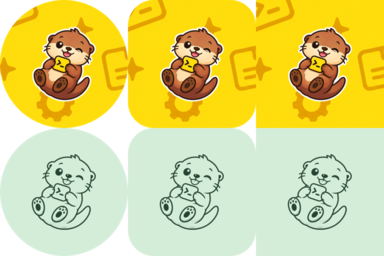
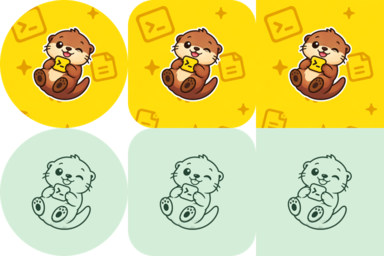
Show the whole background image on Android, at the same scale as other platforms
Android launchers show only the inner 72dp of the 108dp adaptive layer,
so stretching the image over the whole layer zoomed it 1.5x compared
with iOS. The image now covers the visible 72dp, and the margin that
launcher motion reveals mirrors its edges.

diff --git a/generate.go b/generate.go
@@ -148,7 +148,7 @@ func writeBundle(ctx context.Context, root string, opts options, foreground, mon
 	}
 	write := func(path string, data []byte) error { return writeBundleFile(ctx, root, path, data) }
 	writePNG := func(path string, img image.Image) error { return writePNGFile(ctx, root, path, img) }
-	// A color background is a shape drawable; an image becomes a full 108dp layer per density.
+	// A color background is a shape drawable; an image becomes a 108dp layer per density.
 	if background.image == nil {
 		bgXML := fmt.Sprintf("<?xml version=\"1.0\" encoding=\"utf-8\"?>\n<shape xmlns:android=\"http://schemas.android.com/apk/res/android\" android:shape=\"rectangle\">\n    <solid android:color=\"#%02X%02X%02X\" />\n</shape>\n", background.color.R, background.color.G, background.color.B)
 		if err := write("res/drawable/"+opts.Name+"_background.xml", []byte(bgXML)); err != nil {
@@ -157,7 +157,7 @@ func writeBundle(ctx context.Context, root string, opts options, foreground, mon
 	}
 	for _, d := range densities {
 		if background.image != nil {
-			if err := writePNG("res/drawable-"+d.name+"/"+opts.Name+"_background.png", background.canvas(d.layer)); err != nil {
+			if err := writePNG("res/drawable-"+d.name+"/"+opts.Name+"_background.png", background.adaptiveLayer(d.layer)); err != nil {
 				return err
 			}
 		}
@@ -228,7 +228,7 @@ func writeBundle(ctx context.Context, root string, opts options, foreground, mon
 	}
 	backgroundNote := "The opaque background fills the canvas."
 	if background.image != nil {
-		backgroundNote = "The background image covers the whole 108dp layer. Launchers show about its middle two thirds and reveal more of it as the icon moves."
+		backgroundNote = "The background image covers the visible 72dp, so it appears at the same scale as on other platforms. The outer 18dp, revealed as launchers move the icon, mirrors the image's edges."
 	}
 	guide := fmt.Sprintf("# Android app icons\n\nCopy `res/` into your app's resource source set, preserving the folders. Merge the two application attributes from `manifest-snippet.xml` into your existing AndroidManifest.xml; do not replace your manifest. Review existing icons with the same names, including XML, WebP and PNG variants, before copying. Remove obsolete resources with those names to avoid duplicate or overriding icons.\n\nCompile with Android API 33 or newer. This bundle targets minSdk %d.\n\n- API 26+: 108dp adaptive layers, with %s. %s\n- API 33+: a separate tintable monochrome layer. The launcher must support themed icons and the user must enable them.\n- API 25 and below: density-specific legacy and round PNGs are included when minSdk is below 26.\n\n`preview.png` shows circle, rounded-square and square masks, followed by example themed icons. These are approximations; launcher masks and effects vary. `play-store.png` is an opaque 512×512 PNG without baked-in corner rounding or shadows.\n\nTransparent source padding is trimmed before fitting the mark. Supply clean artwork without baked-in launcher masks or shadows. Thin or unusually shaped marks may need a size adjustment; verify visual balance on your target launcher.\n\nOfficial requirements:\n- https://developer.android.com/develop/ui/compose/system/icon_design_adaptive\n- https://developer.android.com/studio/write/create-app-icons\n- https://developer.android.com/distribute/google-play/resources/icon-design-specifications\n", opts.MinSDK, composition, backgroundNote)
 	return write("README.md", []byte(guide))
@@ -239,7 +239,7 @@ func writeBundle(ctx context.Context, root string, opts options, foreground, mon
 func composite(mark *image.NRGBA, bg iconBackground, size int, markDP float64, shape string) *image.NRGBA {
 	fullSize := size * 2
 	foreground := layer(mark, fullSize, markDP)
-	full := bg.canvas(fullSize)
+	full := bg.adaptiveLayer(fullSize)
 	draw.Draw(full, full.Bounds(), foreground, image.Point{}, draw.Over)
 	inset := fullSize / 6
 	crop := image.Rect(inset, inset, fullSize-inset, fullSize-inset)

diff --git a/background_test.go b/background_test.go
@@ -136,8 +136,8 @@ func TestImageBackgroundOnEveryPlatform(t *testing.T) {
 		t.Fatalf("adaptive icon does not use the background layer: %s %v", adaptive, err)
 	}
 	guide, _ := os.ReadFile(filepath.Join(root, "android", "README.md"))
-	if !strings.Contains(string(guide), "middle two thirds") {
-		t.Fatal("Android guide does not explain how launchers crop the background image")
+	if !strings.Contains(string(guide), "covers the visible 72dp") {
+		t.Fatal("Android guide does not explain where the background image appears")
 	}
 	for _, check := range []struct {
 		path string
@@ -214,4 +214,32 @@ func TestAppleGlassRendersImageBackground(t *testing.T) {
 	if got.B < got.R+80 {
 		t.Fatalf("glass tile does not show the background image: %v", got)
 	}
+}
+
+func TestAndroidBackgroundImageCoversVisibleAreaAndMirrorsMargin(t *testing.T) {
+	// A white image with a red frame shows whether the image maps to the
+	// visible 72dp of the layer rather than to the whole 108dp.
+	img := image.NewNRGBA(image.Rect(0, 0, 100, 100))
+	for y := 0; y < 100; y++ {
+		for x := 0; x < 100; x++ {
+			c := color.NRGBA{R: 255, G: 255, B: 255, A: 255}
+			if x < 10 || x >= 90 || y < 10 || y >= 90 {
+				c = sideColor
+			}
+			img.SetNRGBA(x, y, c)
+		}
+	}
+	bg, err := loadBackground(context.Background(), writePNGFixture(t, img))
+	if err != nil {
+		t.Fatal(err)
+	}
+	layer := bg.adaptiveLayer(432)
+	inset := 432 / 6
+	for _, p := range [][2]int{{inset + 2, 216}, {432 - inset - 3, 216}, {216, inset + 2}, {216, 432 - inset - 3}} {
+		assertColor(t, layer, p[0], p[1], sideColor)
+	}
+	assertColor(t, layer, 216, 216, color.NRGBA{R: 255, G: 255, B: 255, A: 255})
+	// The hidden margin mirrors the frame instead of leaving it empty.
+	assertColor(t, layer, inset-3, 216, sideColor)
+	assertColor(t, layer, 0, 0, color.NRGBA{R: 255, G: 255, B: 255, A: 255})
 }

diff --git a/background.go b/background.go
@@ -66,3 +66,30 @@ func (b iconBackground) canvas(size int) *image.NRGBA {
 	b.fill(img, img.Bounds())
 	return img
 }
+
+// adaptiveLayer returns a size×size Android adaptive background layer. Launchers
+// show the inner 72dp of the 108dp layer, so an image covers that visible area,
+// matching other platforms, and the margin revealed by launcher motion mirrors
+// the image's edges.
+func (b iconBackground) adaptiveLayer(size int) *image.NRGBA {
+	if b.image == nil {
+		return b.canvas(size)
+	}
+	inset := size / 6
+	visible := b.canvas(size - 2*inset)
+	n := visible.Bounds().Dx()
+	mirror := func(v int) int {
+		v = ((v % (2 * n)) + 2*n) % (2 * n)
+		if v >= n {
+			return 2*n - 1 - v
+		}
+		return v
+	}
+	layer := image.NewNRGBA(image.Rect(0, 0, size, size))
+	for y := 0; y < size; y++ {
+		for x := 0; x < size; x++ {
+			layer.SetNRGBA(x, y, visible.NRGBAAt(mirror(x-inset), mirror(y-inset)))
+		}
+	}
+	return layer
+}

diff --git a/README.md b/README.md
@@ -120,7 +120,7 @@ Single-color foreground artwork can supply its own monochrome silhouette.
 iconotter launcher --foreground logo.png --background pattern.png --platform ios,macos,web
 ```
 
-`--background` takes a `#RRGGBB` color or an opaque SVG, PNG, or JPEG. The image is scaled to cover the icon and cropped to its center, never stretched. Android launchers show about the middle two thirds of the background layer and reveal more of it as the icon moves. On macOS glass, the image sits under the artwork as its own layer in the `.icon` document.
+`--background` takes a `#RRGGBB` color or an opaque SVG, PNG, or JPEG. The image is scaled to cover the icon and cropped to its center, never stretched. On Android, the image covers the visible part of the adaptive icon, and the margin launchers reveal when they move the icon mirrors its edges. On macOS glass, the image sits under the artwork as its own layer in the `.icon` document.
 
 ### Remove padding or crop the artwork
 
